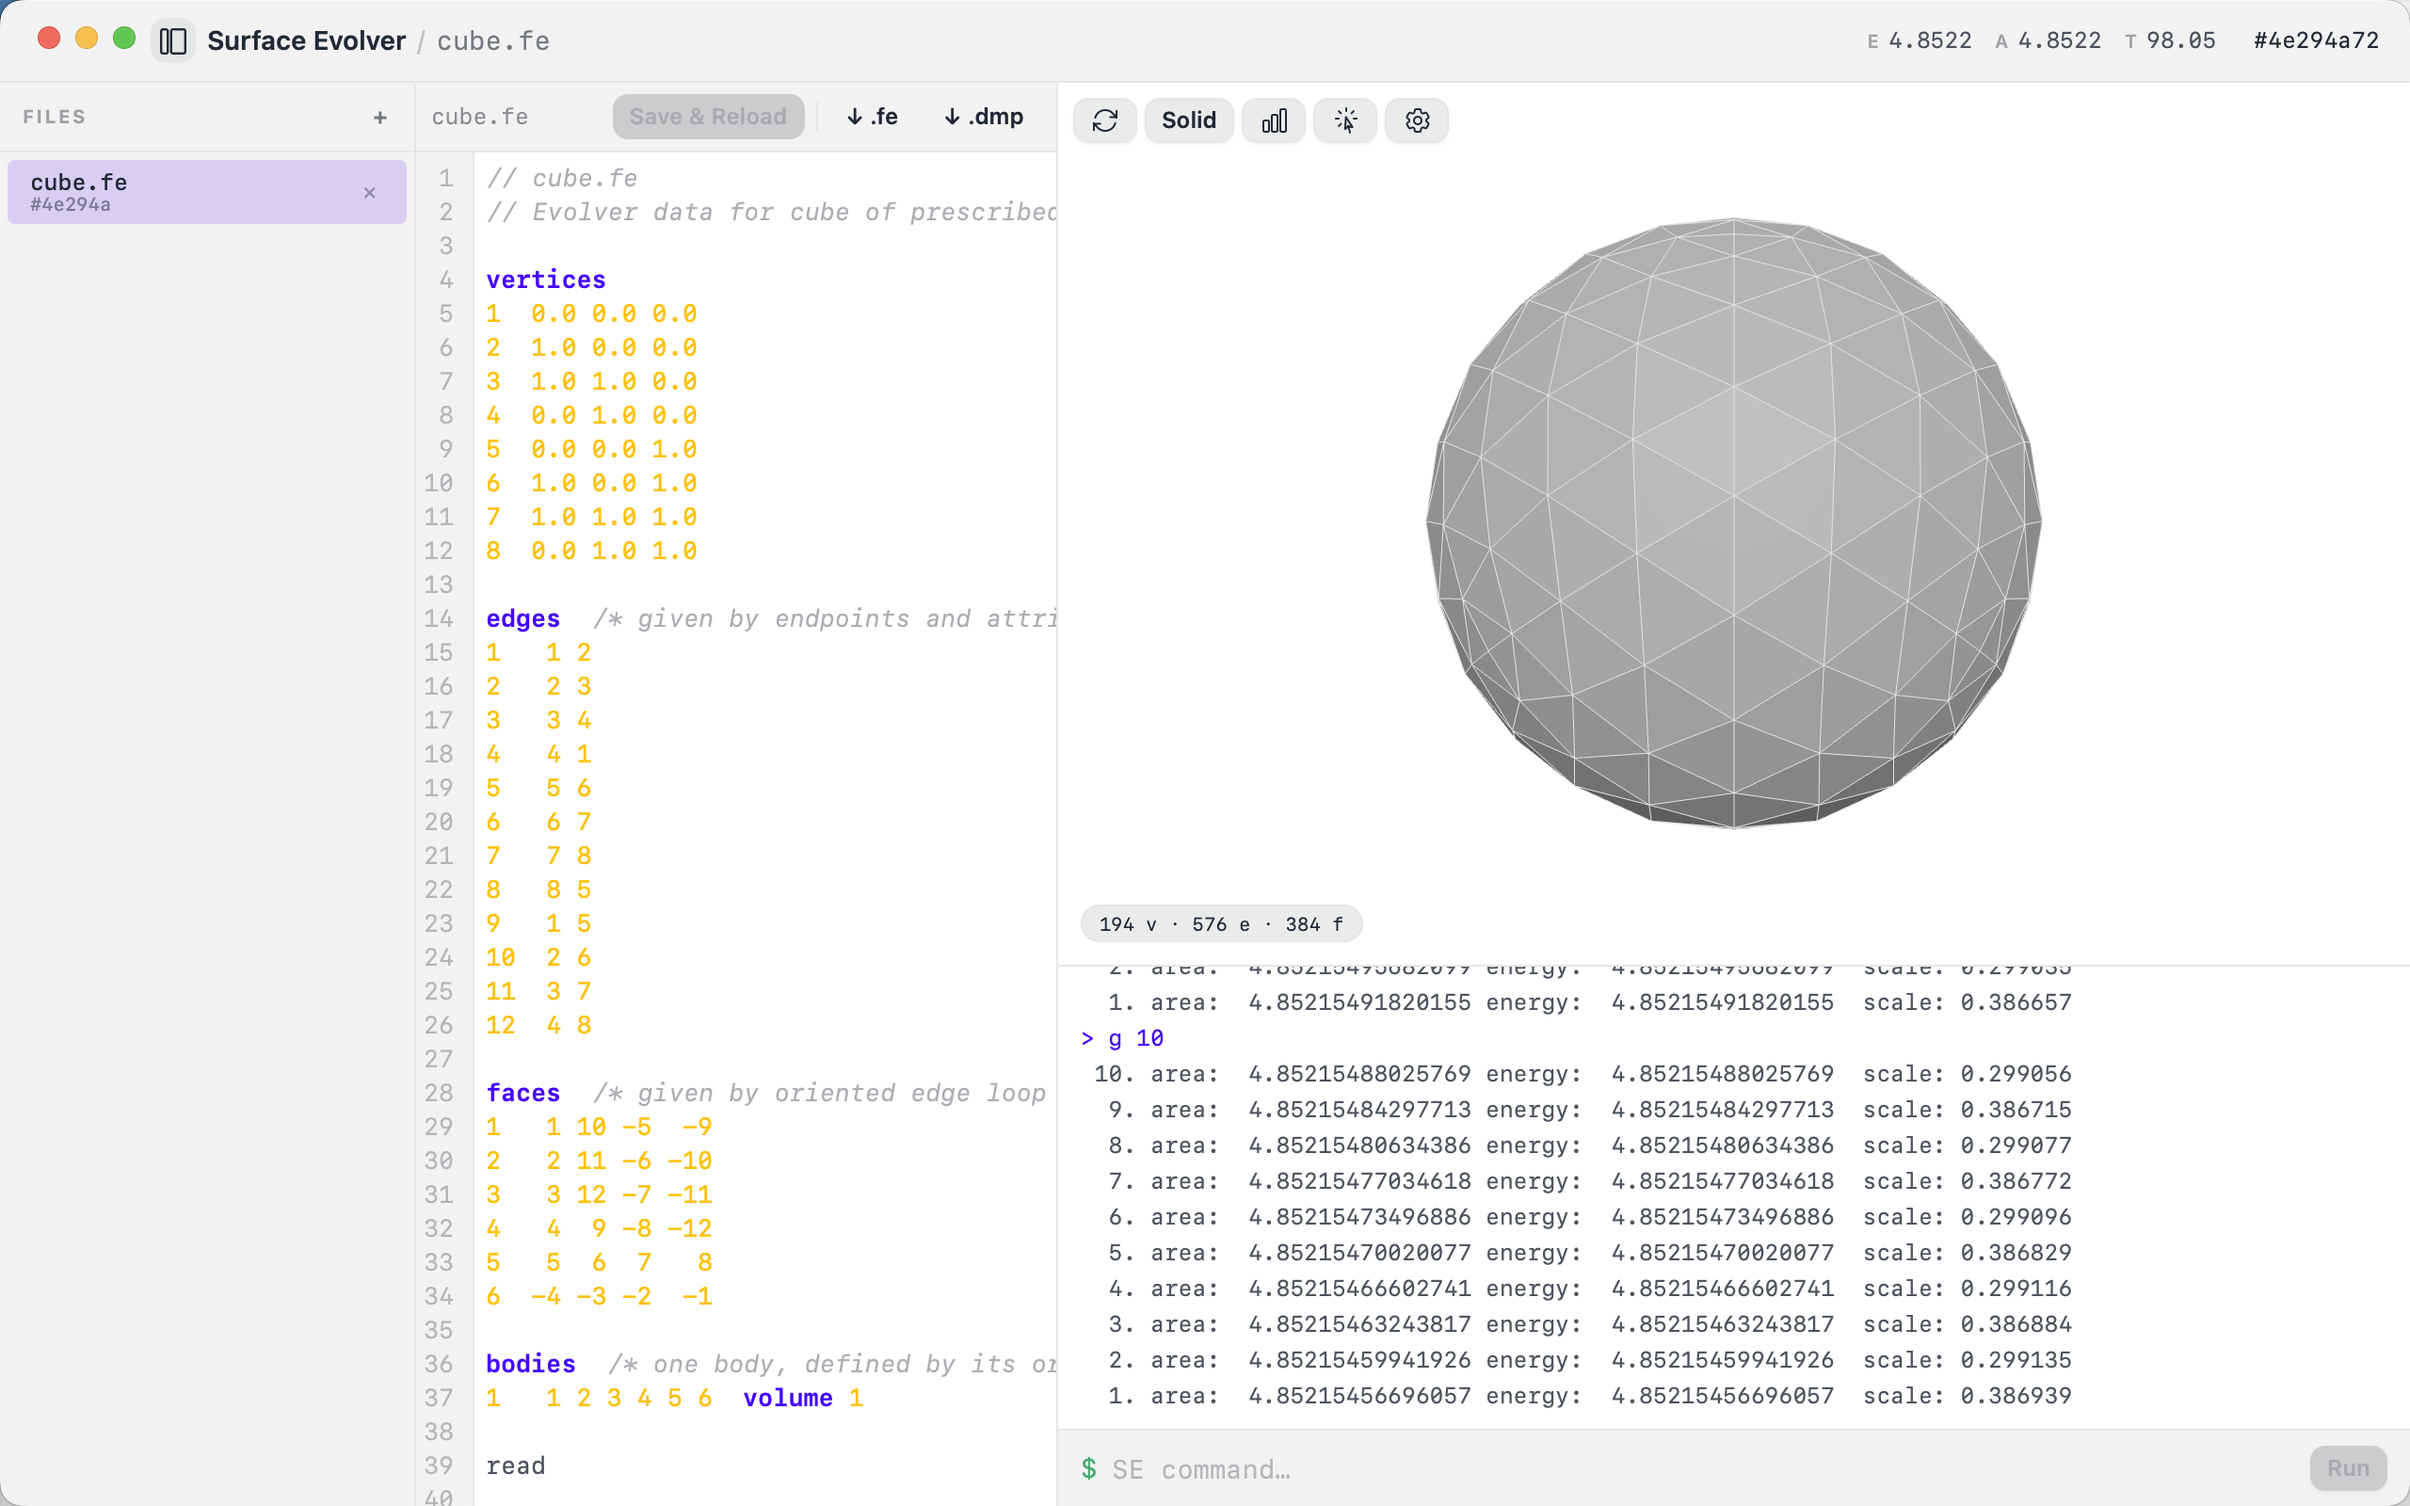
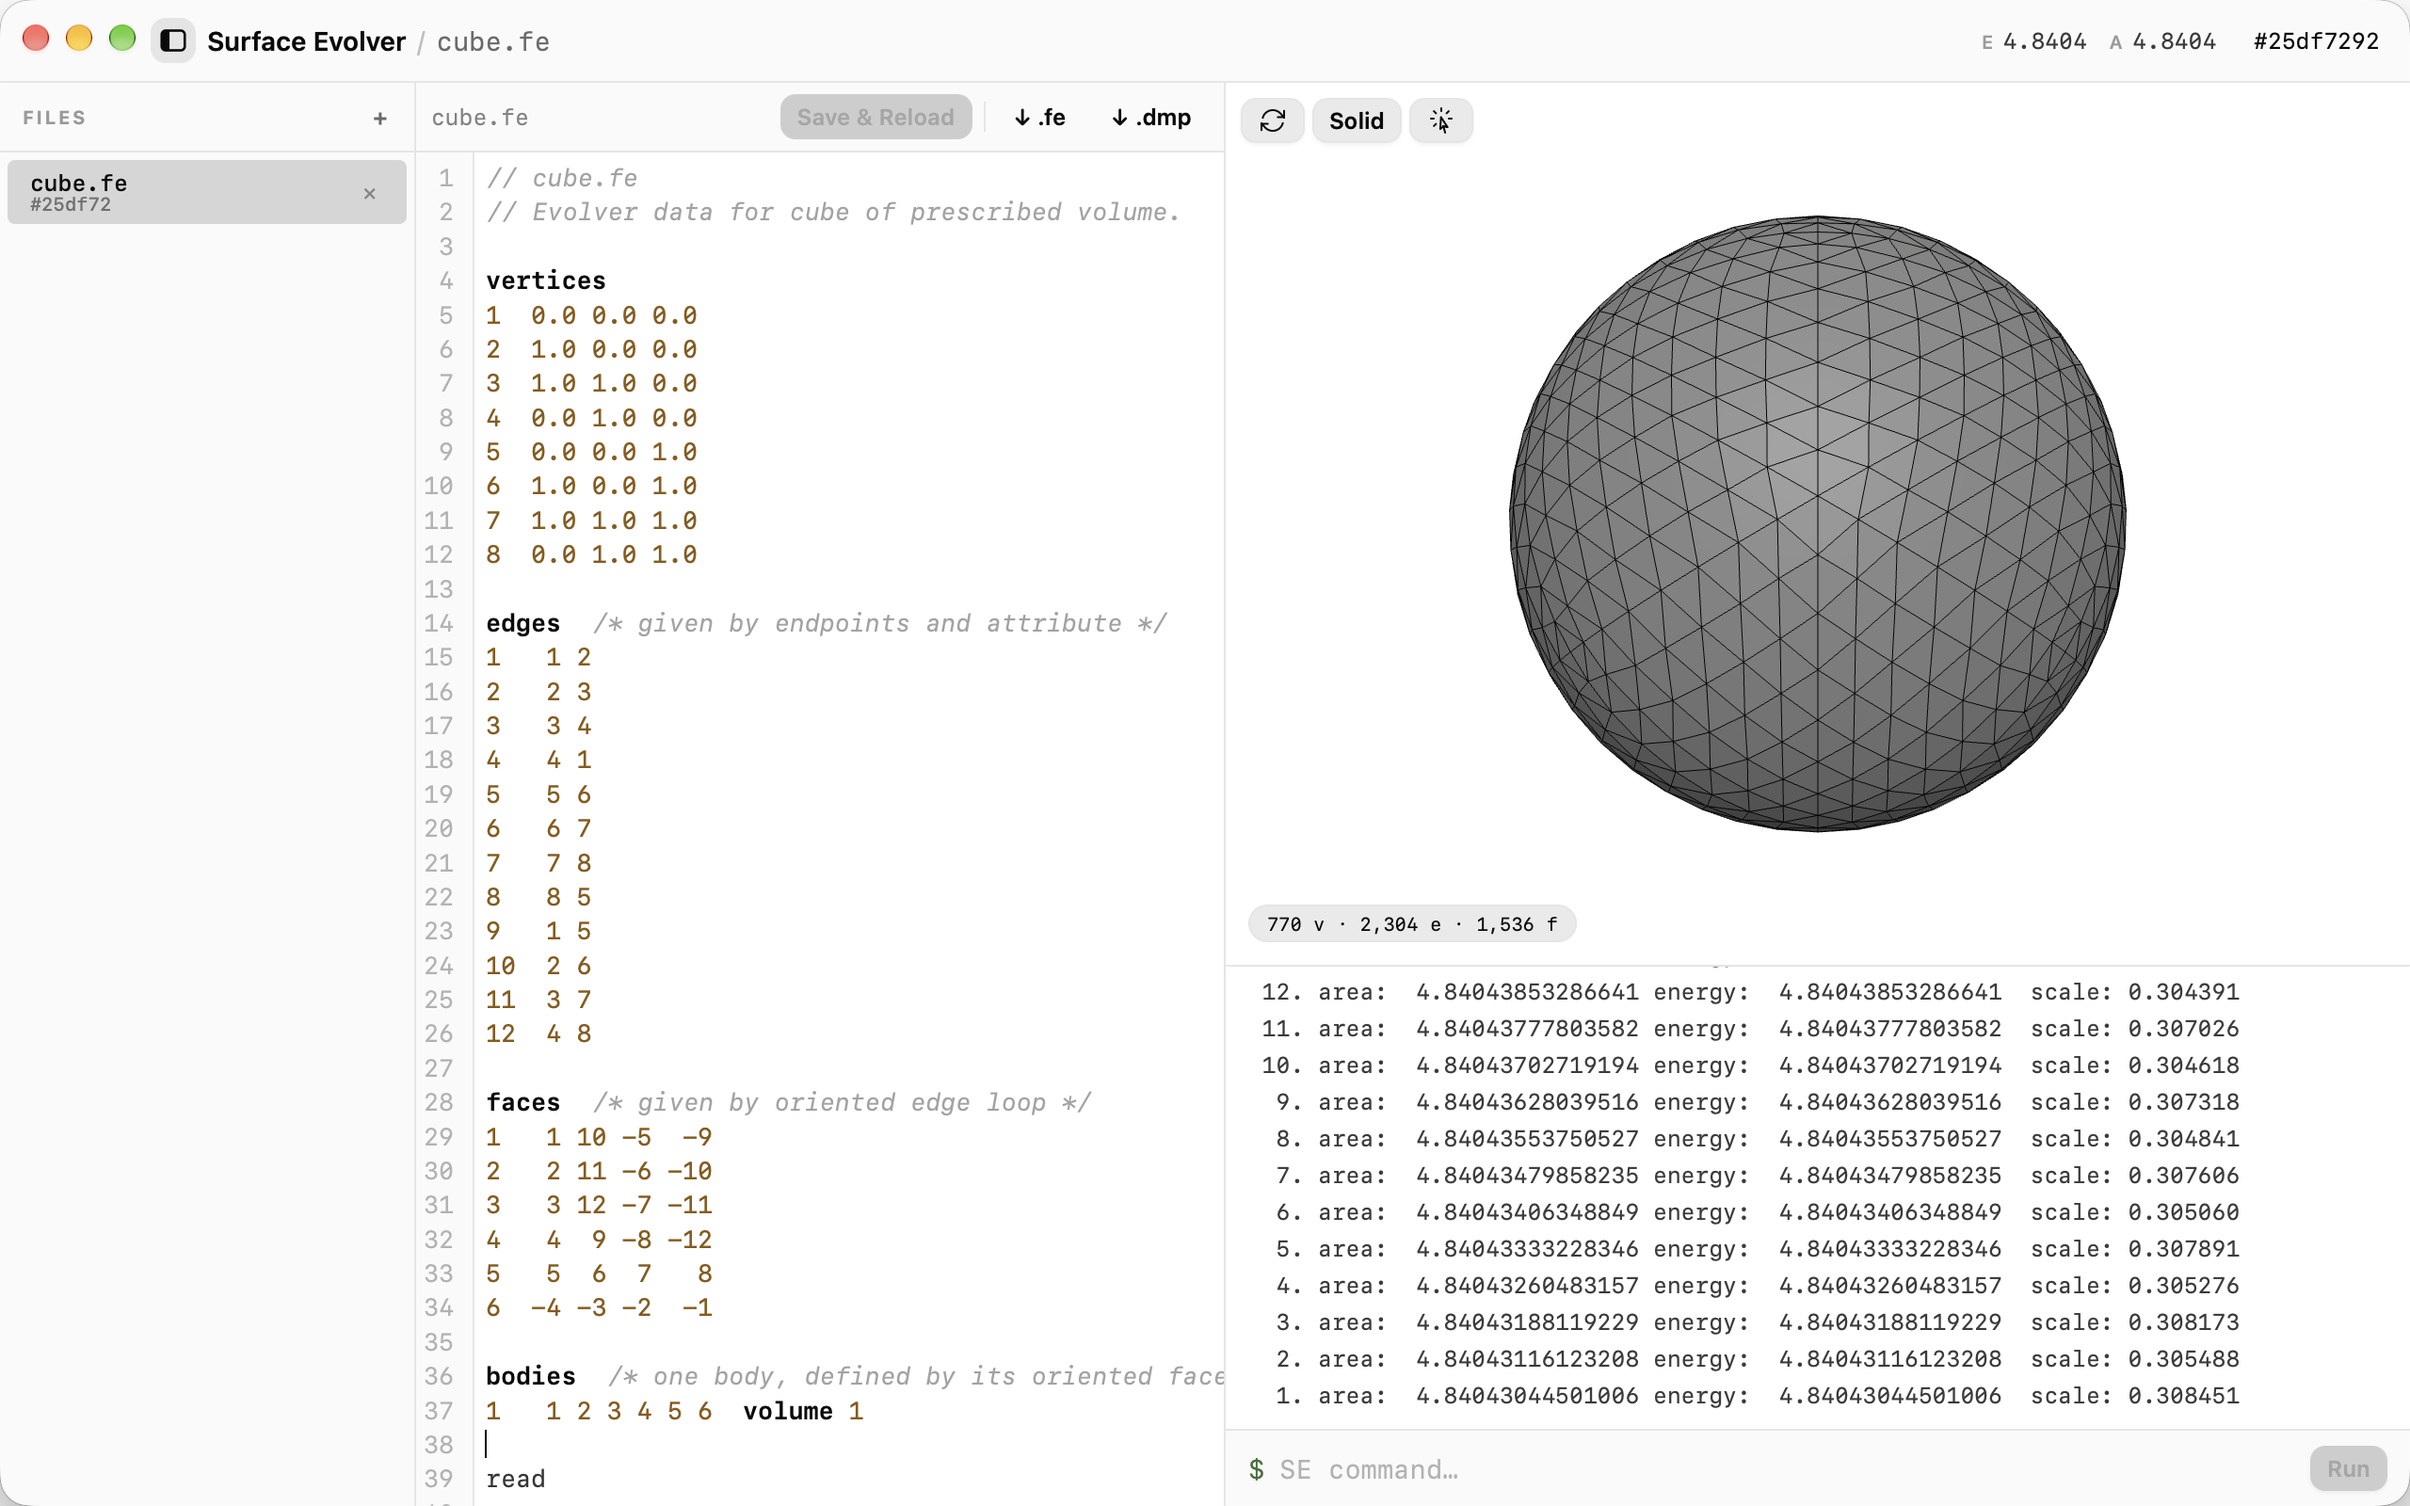
docs(readme): new screenshots with the neutral theme
Light and dark captures of cube.fe refined three times and evolved (770 v,
2,304 e, 1,536 f), the same 2560×1600 shots as the project site. Replaces
the purple-theme screenshots; caption updated to "three times".

diff --git a/README.md b/README.md
@@ -13,7 +13,7 @@ A native desktop app for macOS, Linux, and Windows that wraps Ken Brakke's [Surf
   <img alt="Surface Evolver desktop app: .fe datafile editor on the left, command log below, and a cube evolved into a sphere in the 3D viewer" src="docs/screenshot-light.png">
 </picture>
 
-*`cube.fe` refined twice and evolved to a sphere under its volume constraint — energy and area update live in the titlebar, mesh counts in the viewer.*
+*`cube.fe` refined three times and evolved to a sphere under its volume constraint — energy and area update live in the titlebar, mesh counts in the viewer.*
 
 ## Features
 
